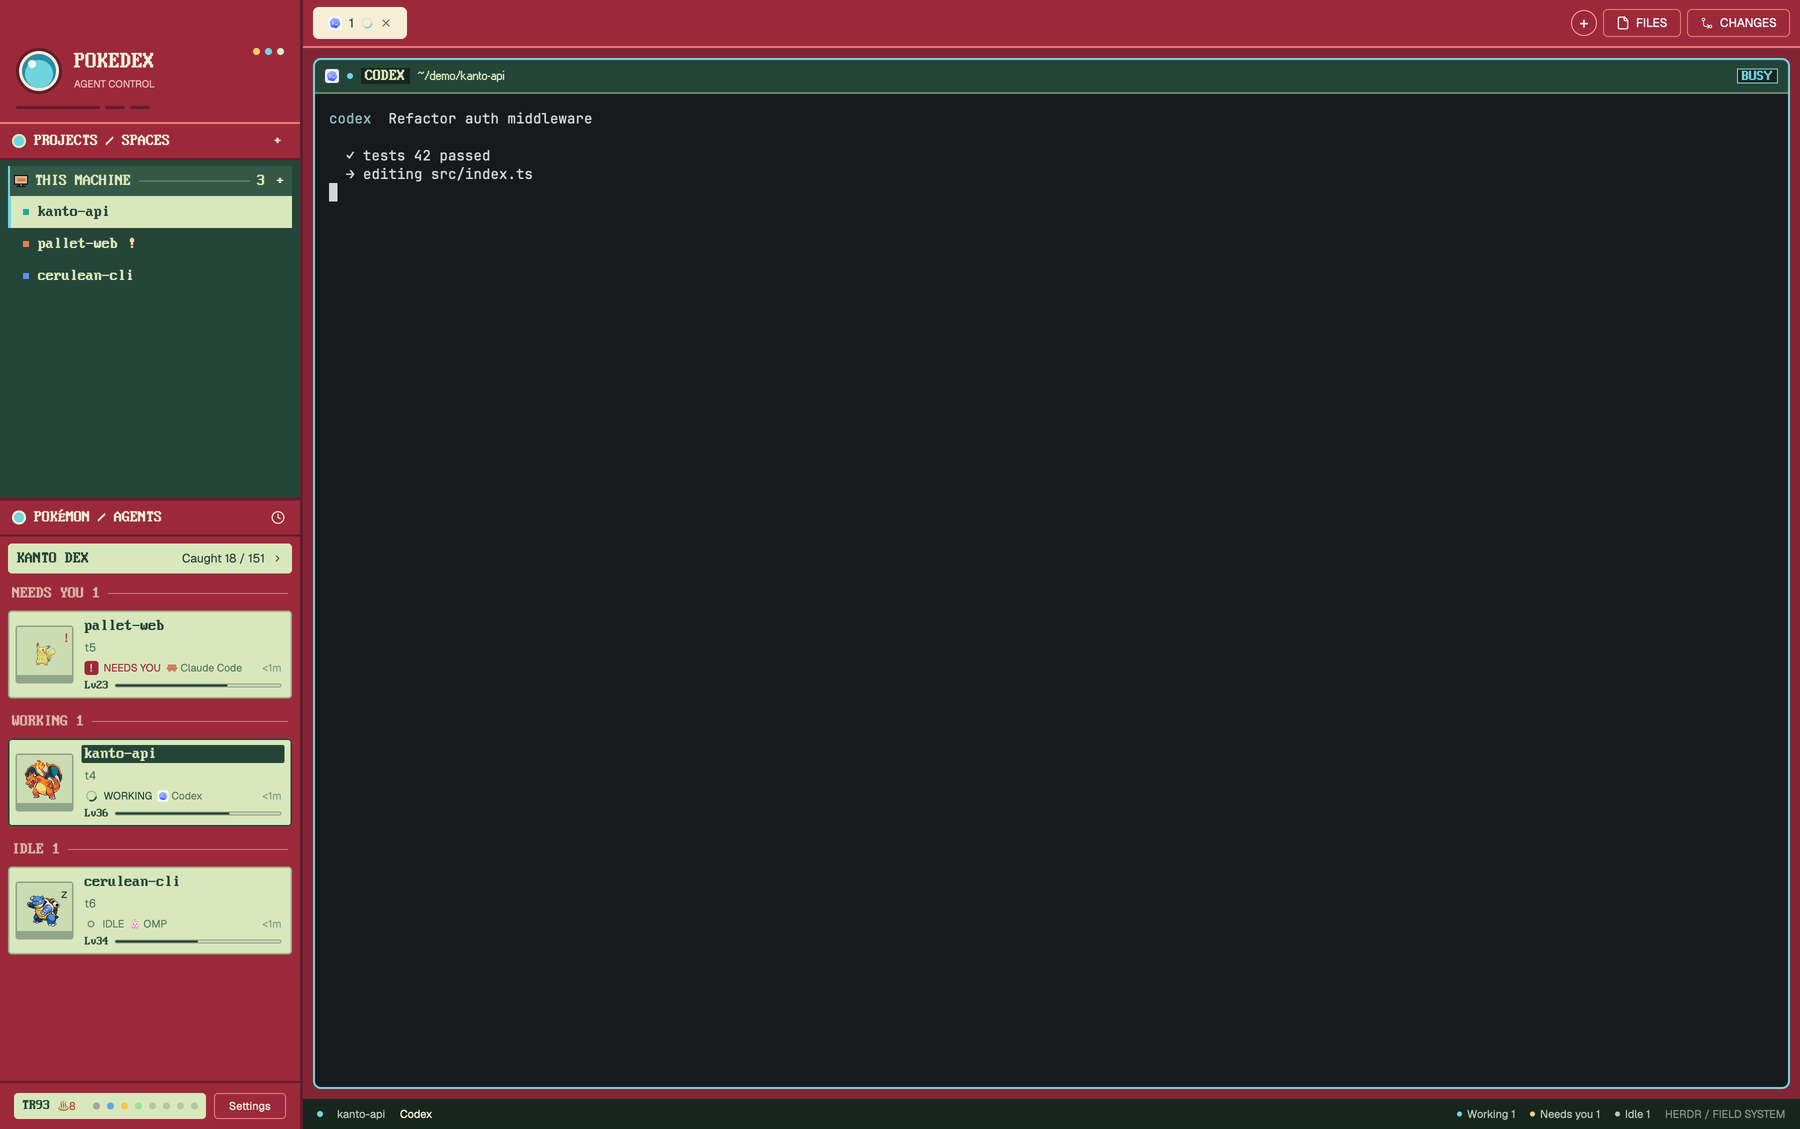
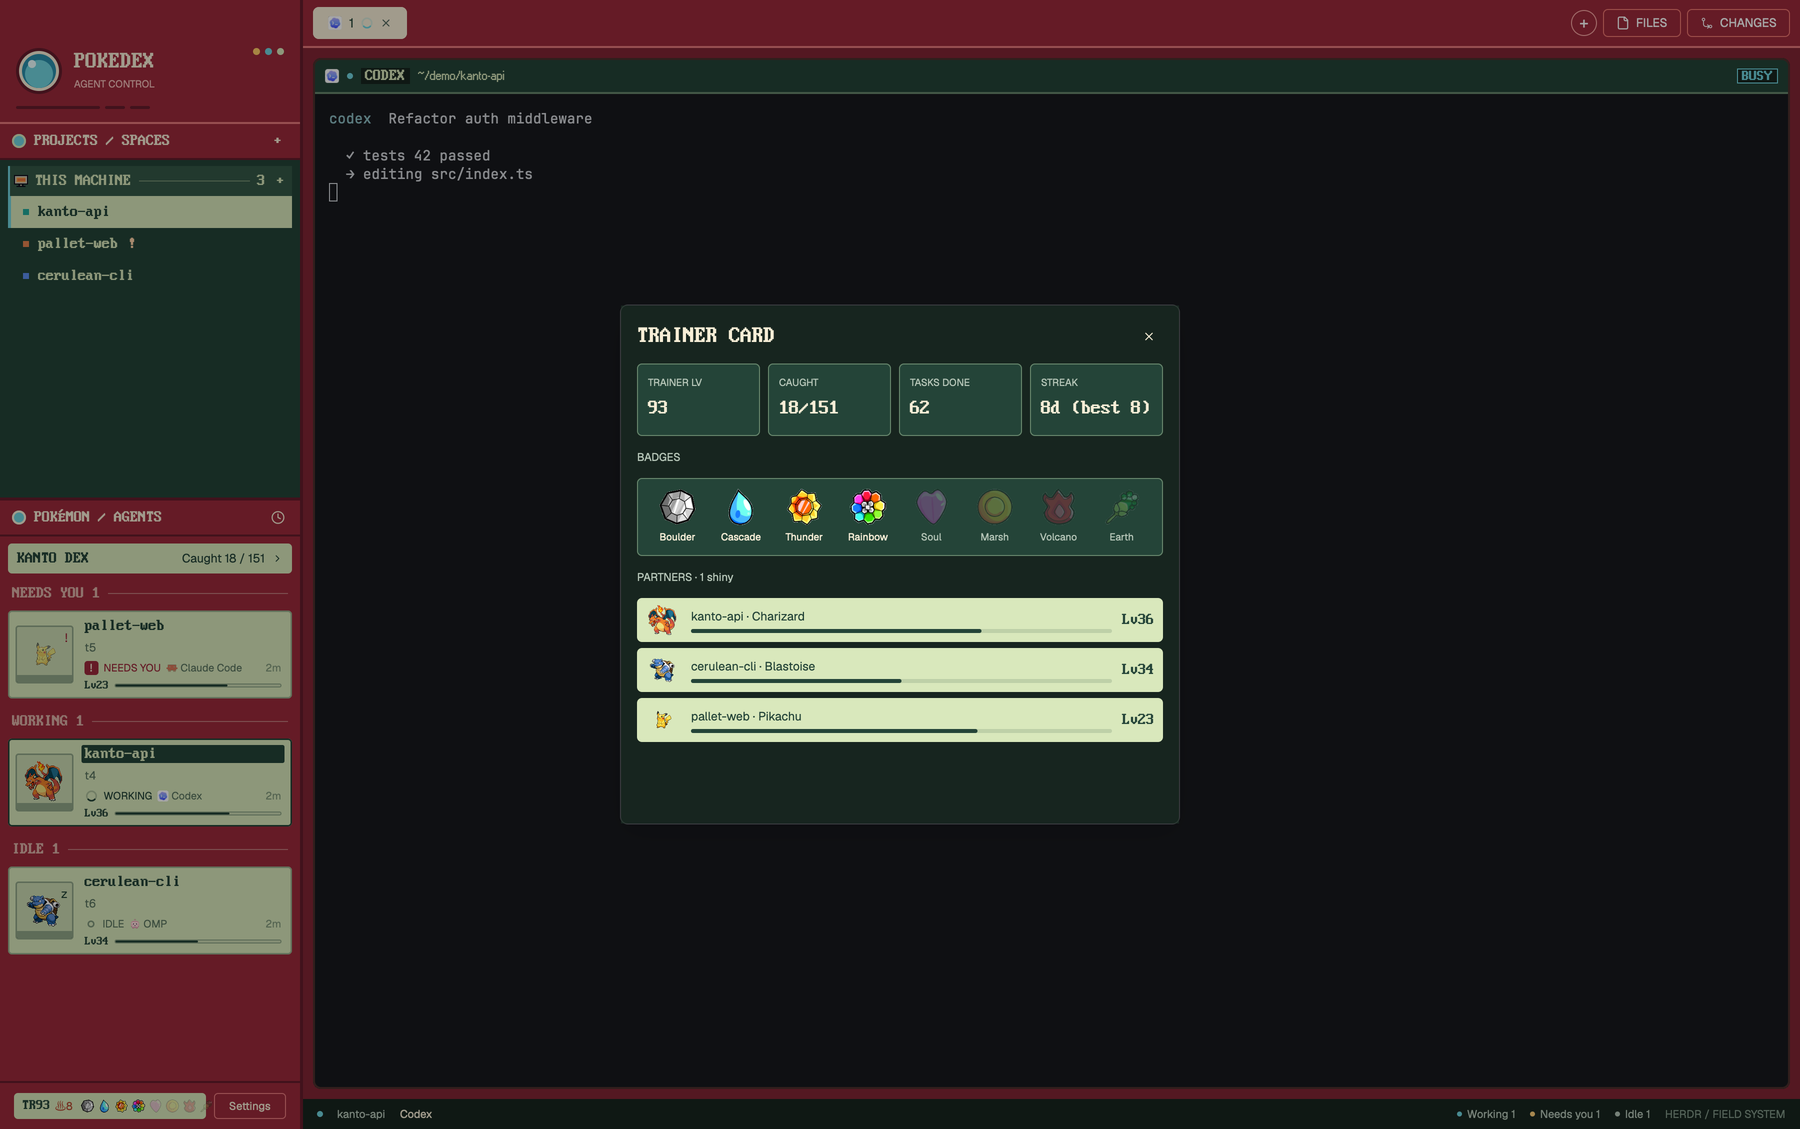
feat(trainer): real Kanto badge art; preview with trainer card

Changed region(s): [[0.0, 0.0, 1.0, 1.0], [0.3422, 0.279, 0.6533, 0.682]]

diff --git a/mods/pokedex-console/main.js b/mods/pokedex-console/main.js
@@ -1,4 +1,4 @@
-import { View, div } from "gpui-kit";
+import { View, div, image } from "gpui-kit";
 import { h_flex, v_flex } from "gpui-base";
 import { agents, focused, props, run, spaces, shared, openOverlay } from "herdr";
 import { game, trainerLevel, liveStreak, BADGES, CAUGHT } from "./game.js";
@@ -63,7 +63,7 @@ export default class PokedexConsole extends View {
   trainer(compact) {
     const g = game();
     const streak = liveStreak(g);
-    return h_flex().id("pokedex-trainer-open").flex_1().min_w(0).h(26).px(8).gap(7).items_center()
+    return h_flex().id("pokedex-trainer-open").flex_1().min_w(0).h(26).px(8).gap(4).items_center()
       .rounded(4).bg(C.lcd).text_color(C.ink).text_size(11).cursor_pointer()
       .tooltip(`Trainer Lv ${trainerLevel(g)} \u00b7 ${(shared(CAUGHT) ?? []).length}/151 caught \u00b7 ${g.tasks} tasks \u00b7 open trainer card`)
       .hover(s => s.bg("#c8dca6"))
@@ -73,8 +73,8 @@ export default class PokedexConsole extends View {
       .when(!compact, el => el
         .child(div().flex_none().font_semibold().text_color(streak ? "#b4472f" : C.ink + "80").child(`\u2668${streak}`))
         .child(div().flex_1())
-        .children(BADGES.map(b => div().size(7).flex_none().rounded(4)
-          .bg(g.badges.includes(b.id) ? b.color : C.ink + "33"))));
+        .children(BADGES.map(b => image(`mods/pokedex-trainer/badges/${b.id}.png`).size(13).flex_none()
+          .when(!g.badges.includes(b.id), el => el.opacity(0.25)))));
   }
 
   footer(compact) {

diff --git a/mods/pokedex-trainer/main.js b/mods/pokedex-trainer/main.js
@@ -19,8 +19,8 @@ export default class PokedexTrainer extends View {
 
   badge(b, earned) {
     return v_flex().id(`badge-${b.id}`).flex_1().gap(4).items_center().tooltip(`${b.name} Badge \u00b7 ${b.goal}`)
-      .child(div().size(30).rounded(15).border(2).border_color(earned ? C.cream : C.border)
-        .bg(earned ? b.color : C.panel).when(!earned, el => el.opacity(0.5)))
+      .child(image(`mods/pokedex-trainer/badges/${b.id}.png`).size(36).flex_none()
+        .when(!earned, el => el.opacity(0.25)))
       .child(div().text_size(10).text_color(earned ? C.cream : C.muted).child(b.name));
   }
 

diff --git a/RECIPE.md b/RECIPE.md
@@ -20,7 +20,7 @@ The window has no system title bar. On macOS the window buttons sit at 12, 16 px
    - a level line: "Lv<n>" in 12 px pixel type and a 4 px XP bar (`#244438` fill on a 1 px ink outline) showing progress to the next level.
    - Sub-agents sit under their parent as 24 px LCD strips joined by tree lines: a 14 px Pokemon, the name and a status mark.
    - With no agents, a "NO DATA" card explains that agents appear when they report status, and that older versions and agents inside tmux may not.
-4. **Footer (48 px).** Red with a 2 px `#641b2b` top line. It holds the trainer strip, a 26 px LCD chip filling the width: "TR<level>" in 14 px pixel type, a streak "♨<days>" (`#b4472f` when the streak is alive), then eight 7 px badge pips in each badge's color (dimmed ink when locked). After it is a "Settings" button (72 x 26 px, `#e8797d` border).
+4. **Footer (48 px).** Red with a 2 px `#641b2b` top line. It holds the trainer strip, a 26 px LCD chip filling the width: "TR<level>" in 14 px pixel type, a streak "♨<days>" (`#b4472f` when the streak is alive), then the eight badge sprites at 13 px (25% opacity when locked). After it is a "Settings" button (72 x 26 px, `#e8797d` border).
 
 **Work area, top to bottom**
 
@@ -56,7 +56,7 @@ A sub-agent reporting `error` counts as blocked. A sub-agent never shows done: i
 - **Shinies.** Every new catch has a 1 in 8 chance to be shiny at a 7-day streak and 1 in 4 at 30 days. Shiny cards in the collection get a 2 px gold `#e8c35a` border and a "✦ SHINY" tag.
 - **Wild encounters.** Each finished task has a 15% chance (when none is waiting) to spawn a random Gen 1 Pokemon; legendaries (#144-146, #150, #151) need a second roll. A toast "A wild <Name> appeared!" lasts 60 s and runs `mod.open pokedex-encounter` when clicked. The 340 x 340 encounter dialog shows the bobbing sprite, its catch rate and 3 Poke Balls: 60% for basic and middle forms, 35% for final forms, 3% for legendaries. "Throw Poke Ball" says Gotcha!, broke free or fled; "Run" clears it. After 60 s it's gone.
 - **Badges.** Eight Kanto badges, each announced by a toast when earned: Boulder (10 caught), Cascade (50 tasks), Thunder (first evolution), Rainbow (3-day streak), Soul (75 caught), Marsh (500 tasks), Volcano (30-day streak), Earth (all 151).
-- **Trainer card.** Clicking the footer strip opens `pokedex-trainer` as a 560 x 520 dialog: TRAINER LV (sum of partner levels), CAUGHT n/151, TASKS DONE, STREAK ("<n>d (best <m>)"), the badge row (filled circles when earned, dimmed outlines when locked, goal in a tooltip), and up to six partners by XP with sprite, project, name, XP bar and level.
+- **Trainer card.** Clicking the footer strip opens `pokedex-trainer` as a 560 x 520 dialog: TRAINER LV (sum of partner levels), CAUGHT n/151, TASKS DONE, STREAK ("<n>d (best <m>)"), the badge row (the real Kanto badge art at 36 px, 25% opacity when locked, goal in a tooltip), and up to six partners by XP with sprite, project, name, XP bar and level.
 
 **Agents list.**
 - Clicking a card focuses its pane. Clicking a sub-agent strip focuses it if it has a pane, and otherwise peeks at it.
@@ -97,7 +97,7 @@ A sub-agent reporting `error` counts as blocked. A sub-agent never shows done: i
     - `status` block, 30 px, `pokedex-console` with `{ role: "status" }`
 - **`layouts/pokedex.svg`.** The settings preview.
 - **Eight mods.** All have `place: "none"`. Herdr refuses imports from another mod's folder, so each mod that plays keeps identical copies of `game.js` (the rules) and `pokemon.js` (names): `pokedex-agents`, `pokedex-console`, `pokedex-collection`, `pokedex-trainer` and `pokedex-encounter`.
-  - `pokedex-trainer` is the trainer card dialog (`mod.json` overlay dialog 560 x 520). It reads `pokedex.game`, `pokedex.caught` and `pokedex.partners`.
+  - `pokedex-trainer` is the trainer card dialog (`mod.json` overlay dialog 560 x 520). It holds `badges/` with the eight Kanto badge PNGs (`boulder.png` to `earth.png`, 75-85 px, from the PokeAPI sprites repository `sprites/badges/1-8.png`); the console strip reads them from there too. It reads `pokedex.game`, `pokedex.caught` and `pokedex.partners`.
   - `pokedex-encounter` is the wild encounter dialog (`mod.json` overlay dialog 340 x 340), opened by `mod.open` from the encounter toast. It calls `throwBall()` and `runAway()`.
   - `pokedex-console` draws three roles from `props().role`: `brand`, `footer` and `status` (it defaults to brand). It reads `agents()`, `spaces()`, `focused()` and the game state, runs `app.palette` and `app.settings {section: "look"}`, and opens `pokedex-trainer`. It measures its own width with `on_size_change` and goes compact under 160 px.
   - `pokedex-spaces` was cloned from Herdr's spaces mod (via `retropet-spaces`). It uses `spaces()`, `machines()`, `panes()`, `window()`, `layout()` and `shared("space.colors")`. It runs `exec("git", ...)` (`status --porcelain=v2 --branch`, `rev-parse`) locally or on the space's machine, and `hc machine ls/rm/add`. It uses `watchFolder` on local repos, `space.select`, `space.move`, `space.new` and `openOverlay` of the shipped `menu`. Its timers run at 250 ms (cheap change check) and 15 s (machines). It holds `fonts/` and `art/` (`monitor.svg`, `server.svg`, `dither.svg`).
